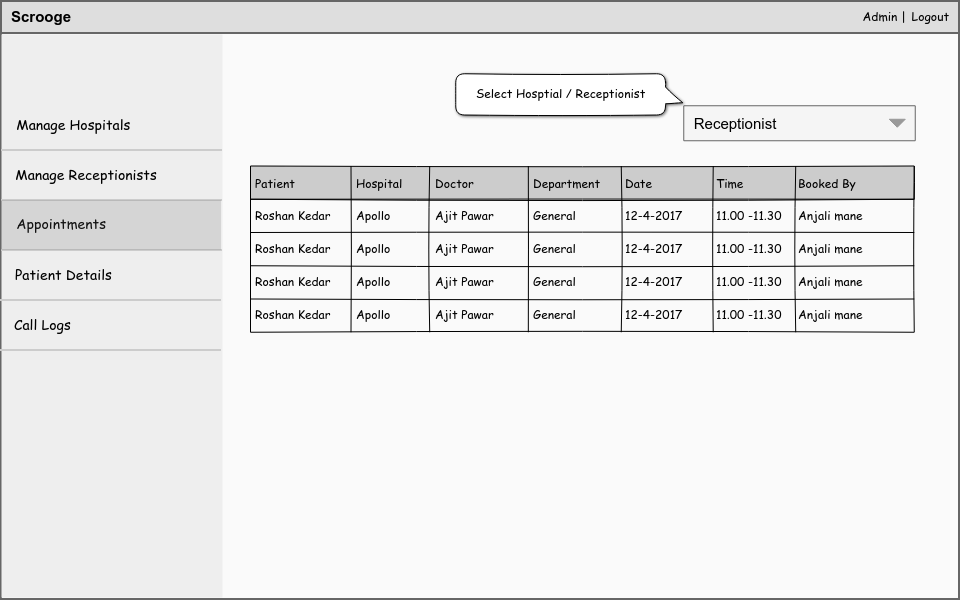
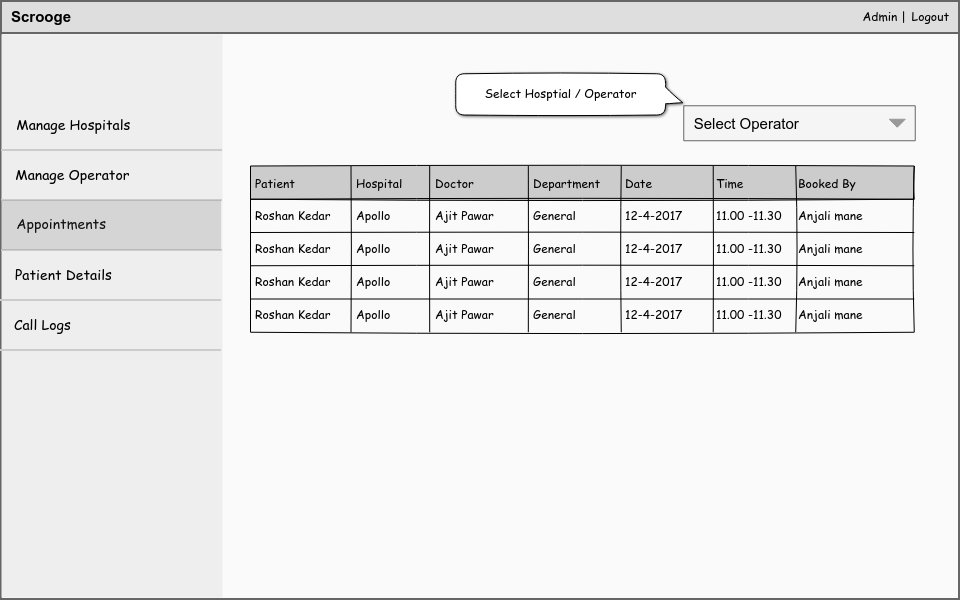
rename receptionist to operator, add department filter in hospital dashboard

diff --git a/index.html b/index.html
@@ -1,2 +1,2 @@
 <html xmlns="http://www.w3.org/1999/xhtml" xmlns:p="http://www.evolus.vn/Namespace/Pencil" xmlns:html="http://www.w3.org/1999/xhtml"><head><meta http-equiv="Content-Type" content="text/html; charset=UTF-8" />
-<title>scrooge.epgz</title><link rel="stylesheet" href="Resources/SampleStyle.css" /></head><body><h1 id="documentTitle">scrooge.epgz</h1><p id="documentMetadata">Exported at: Tue Mar 14 2017 17:45:34 GMT+0530 (IST)</p><div class="Page" id="login_page"><h2>login</h2><div class="ImageContainer"><img src="pages/login.png" width="960" height="600" usemap="#map_login" /></div><map name="map_login"><area shape="rect" coords="358,344,612,385.25" href="#dashboard_page" title="Go to page 'Dashboard'" /></map></div><div class="Page" id="dashboard_page"><h2>Dashboard</h2><div class="ImageContainer"><img src="pages/dashboard.png" width="960" height="600" usemap="#map_dashboard" /></div><map name="map_dashboard"><area shape="rect" coords="368.90625,391.4375,618.90625,436.4375" href="#hospital_page" title="Go to page 'hospital'" /><area shape="rect" coords="368.90625,135.4375,618.90625,182.4375" href="#admin_page" title="Go to page 'admin'" /><area shape="rect" coords="368.90625,306.4375,618.90625,351.4375" href="#doctor_page" title="Go to page 'doctor'" /><area shape="rect" coords="368.90625,222.4375,618.90625,268.4375" href="#operator_page" title="Go to page 'operator'" /></map></div><div class="Page" id="admin_page"><h2>admin</h2><div class="ImageContainer"><img src="pages/admin.png" width="960" height="600" usemap="#map_admin" /></div><map name="map_admin"><area shape="rect" coords="14,315,70.765625,334" href="#operatorscalllogs_page" title="Go to page 'operators-call-logs'" /><area shape="rect" coords="15,265,111.84375,284" href="#patientdetails_page" title="Go to page 'patient-details'" /><area shape="rect" coords="16.279998779296875,214.1199951171875,105.983123779297,233.119995117188" href="#appointments_page" title="Go to page 'appointments'" /><area shape="rect" coords="15.279998779296875,165.1199951171875,156.748748779297,184.119995117188" href="#managereceptionist_page" title="Go to page 'manage-receptionist'" /><area shape="rect" coords="862.5625,7.5625,905.984375,23.5625" href="#login_page" title="Go to page 'login'" /><area shape="rect" coords="911.5625,7.5625,949.046875,23.859375" href="#login_page" title="Go to page 'login'" /></map></div><div class="Page" id="managereceptionist_page"><h2>manage-receptionist</h2><div class="ImageContainer"><img src="pages/managereceptionist.png" width="960" height="600" usemap="#map_managereceptionist" /></div><map name="map_managereceptionist"><area shape="rect" coords="14,315,70.765625,334" href="#operatorscalllogs_page" title="Go to page 'operators-call-logs'" /><area shape="rect" coords="15,265,111.84375,284" href="#patientdetails_page" title="Go to page 'patient-details'" /><area shape="rect" coords="16.279998779296875,214.1199951171875,105.983123779297,233.119995117188" href="#appointments_page" title="Go to page 'appointments'" /><area shape="rect" coords="16.279998779296875,115.1199951171875,130.326873779297,134.119995117188" href="#admin_page" title="Go to page 'admin'" /><area shape="rect" coords="862.5625,7.5625,905.984375,23.5625" href="#login_page" title="Go to page 'login'" /><area shape="rect" coords="911.5625,6.5625,949.046875,22.859375" href="#login_page" title="Go to page 'login'" /></map></div><div class="Page" id="appointments_page"><h2>appointments</h2><div class="ImageContainer"><img src="pages/appointments.png" width="960" height="600" usemap="#map_appointments" /></div><map name="map_appointments"><area shape="rect" coords="14,315,70.765625,334" href="#operatorscalllogs_page" title="Go to page 'operators-call-logs'" /><area shape="rect" coords="15,265,111.84375,284" href="#patientdetails_page" title="Go to page 'patient-details'" /><area shape="rect" coords="15.279998779296875,165.1199951171875,156.748748779297,184.119995117188" href="#managereceptionist_page" title="Go to page 'manage-receptionist'" /><area shape="rect" coords="16.279998779296875,115.1199951171875,130.326873779297,134.119995117188" href="#admin_page" title="Go to page 'admin'" /><area shape="rect" coords="862.5625,7.5625,905.984375,23.5625" href="#login_page" title="Go to page 'login'" /><area shape="rect" coords="911.5625,7.5625,949.046875,23.859375" href="#login_page" title="Go to page 'login'" /></map></div><div class="Page" id="patientdetails_page"><h2>patient-details</h2><div class="ImageContainer"><img src="pages/patientdetails.png" width="960" height="600" usemap="#map_patientdetails" /></div><map name="map_patientdetails"><area shape="rect" coords="14,315,70.765625,334" href="#operatorscalllogs_page" title="Go to page 'operators-call-logs'" /><area shape="rect" coords="16.279998779296875,214.1199951171875,105.983123779297,233.119995117188" href="#appointments_page" title="Go to page 'appointments'" /><area shape="rect" coords="15.279998779296875,165.1199951171875,156.748748779297,184.119995117188" href="#managereceptionist_page" title="Go to page 'manage-receptionist'" /><area shape="rect" coords="16.279998779296875,115.1199951171875,130.326873779297,134.119995117188" href="#admin_page" title="Go to page 'admin'" /><area shape="rect" coords="862.5625,7.5625,905.984375,23.5625" href="#login_page" title="Go to page 'login'" /><area shape="rect" coords="911.5625,7.5625,949.046875,23.859375" href="#login_page" title="Go to page 'login'" /></map></div><div class="Page" id="operatorscalllogs_page"><h2>operators-call-logs</h2><div class="ImageContainer"><img src="pages/operatorscalllogs.png" width="960" height="600" usemap="#map_operatorscalllogs" /></div><map name="map_operatorscalllogs"><area shape="rect" coords="733.2799682617188,92.1199951171875,750.154968261719,111.119995117188" href="#admin_page" title="Go to page 'admin'" /><area shape="rect" coords="592.2799682617188,91.1199951171875,625.733093261719,110.119995117188" href="#admin_page" title="Go to page 'admin'" /><area shape="rect" coords="258.27996826171875,91.1199951171875,386.483093261719,110.119995117188" href="#admin_page" title="Go to page 'admin'" /><area shape="rect" coords="15,265,111.84375,284" href="#patientdetails_page" title="Go to page 'patient-details'" /><area shape="rect" coords="16.279998779296875,214.1199951171875,105.983123779297,233.119995117188" href="#appointments_page" title="Go to page 'appointments'" /><area shape="rect" coords="15.279998779296875,165.1199951171875,156.748748779297,184.119995117188" href="#managereceptionist_page" title="Go to page 'manage-receptionist'" /><area shape="rect" coords="16.279998779296875,115.1199951171875,130.326873779297,134.119995117188" href="#admin_page" title="Go to page 'admin'" /><area shape="rect" coords="862.5625,7.5625,905.984375,23.5625" href="#login_page" title="Go to page 'login'" /><area shape="rect" coords="911.5625,7.5625,949.046875,23.859375" href="#login_page" title="Go to page 'login'" /></map></div><div class="Page" id="doctor_page"><h2>doctor</h2><div class="ImageContainer"><img src="pages/doctor.png" width="960" height="600" usemap="#map_doctor" /></div><map name="map_doctor"><area shape="rect" coords="676,337.75,829.25,375.25" href="#doctorcalendermodal_page" title="Go to page 'doctor-calender-modal'" /><area shape="rect" coords="842.5625,7.5625,904.703125,23.5625" href="#login_page" title="Go to page 'login'" /><area shape="rect" coords="911.5625,7.5625,949.046875,23.859375" href="#login_page" title="Go to page 'login'" /></map></div><div class="Page" id="doctorcalendermodal_page"><h2>doctor-calender-modal</h2><div class="ImageContainer"><img src="pages/doctorcalendermodal.png" width="960" height="600" usemap="#map_doctorcalendermodal" /></div><map name="map_doctorcalendermodal"><area shape="rect" coords="0,0,960,600" href="#doctor_page" title="Go to page 'doctor'" /><area shape="rect" coords="842.5625,7.5625,904.703125,23.5625" href="#login_page" title="Go to page 'login'" /><area shape="rect" coords="911.5625,7.5625,949.046875,23.859375" href="#login_page" title="Go to page 'login'" /></map></div><div class="Page" id="operator_page"><h2>operator</h2><div class="ImageContainer"><img src="pages/operator.png" width="960" height="600" usemap="#map_operator" /></div><map name="map_operator"><area shape="rect" coords="422.9375,316.625,708.6875,369.125" href="#operatorappointments_page" title="Go to page 'operator-appointments'" /><area shape="rect" coords="14,215,70.765625,234" href="#calllogs_page" title="Go to page 'call-logs'" /><area shape="rect" coords="14,166,83.265625,185" href="#followups_page" title="Go to page 'follow-ups'" /><area shape="rect" coords="16.279998779296875,114.1199951171875,105.983123779297,133.119995117188" href="#appointments_page" title="Go to page 'appointments'" /><area shape="rect" coords="911.5625,7.5625,949.046875,23.859375" href="#login_page" title="Go to page 'login'" /></map></div><div class="Page" id="calllogs_page"><h2>call-logs</h2><div class="ImageContainer"><img src="pages/calllogs.png" width="960" height="600" usemap="#map_calllogs" /></div><map name="map_calllogs"><area shape="rect" coords="763.2799682617188,85.1199951171875,780.154968261719,104.119995117188" href="#admin_page" title="Go to page 'admin'" /><area shape="rect" coords="622.2799682617188,84.1199951171875,655.733093261719,103.119995117188" href="#admin_page" title="Go to page 'admin'" /><area shape="rect" coords="15,165,84.265625,184" href="#followups_page" title="Go to page 'follow-ups'" /><area shape="rect" coords="16.279998779296875,114.1199951171875,105.983123779297,133.119995117188" href="#operatorappointments_page" title="Go to page 'operator-appointments'" /><area shape="rect" coords="911.5625,7.5625,949.046875,23.859375" href="#login_page" title="Go to page 'login'" /></map></div><div class="Page" id="followups_page"><h2>follow-ups</h2><div class="ImageContainer"><img src="pages/followups.png" width="960" height="600" usemap="#map_followups" /></div><map name="map_followups"><area shape="rect" coords="771.2799682617188,87.1199951171875,788.154968261719,106.119995117188" href="#admin_page" title="Go to page 'admin'" /><area shape="rect" coords="630.2799682617188,86.1199951171875,663.733093261719,105.119995117188" href="#admin_page" title="Go to page 'admin'" /><area shape="rect" coords="14,215,70.765625,234" href="#calllogs_page" title="Go to page 'call-logs'" /><area shape="rect" coords="15,165,84.265625,184" href="#patientdetails_page" title="Go to page 'patient-details'" /><area shape="rect" coords="16.279998779296875,114.1199951171875,105.983123779297,133.119995117188" href="#operatorappointments_page" title="Go to page 'operator-appointments'" /><area shape="rect" coords="911.5625,7.5625,949.046875,23.859375" href="#login_page" title="Go to page 'login'" /></map></div><div class="Page" id="operatorappointments_page"><h2>operator-appointments</h2><div class="ImageContainer"><img src="pages/operatorappointments.png" width="960" height="600" usemap="#map_operatorappointments" /></div><map name="map_operatorappointments"><area shape="rect" coords="257,101,419,139" href="#newappointmentpatientdetails_page" title="Go to page 'new-appointment-(patient-details)'" /><area shape="rect" coords="14,215,70.765625,234" href="#calllogs_page" title="Go to page 'call-logs'" /><area shape="rect" coords="14,166,83.265625,185" href="#followups_page" title="Go to page 'follow-ups'" /><area shape="rect" coords="16.279998779296875,114.1199951171875,105.983123779297,133.119995117188" href="#appointments_page" title="Go to page 'appointments'" /><area shape="rect" coords="911.5625,7.5625,949.046875,23.859375" href="#login_page" title="Go to page 'login'" /></map></div><div class="Page" id="newappointmentpatientdetails_page"><h2>new-appointment-(patient-details)</h2><div class="ImageContainer"><img src="pages/newappointmentpatientdetails.png" width="960" height="600" usemap="#map_newappointmentpatientdetails" /></div><map name="map_newappointmentpatientdetails"><area shape="rect" coords="734.3125,444.9375,851.3125,484.9375" href="#newappointmentdoctordetails_page" title="Go to page 'new-appointment-(doctor-details)'" /><area shape="rect" coords="14,215,70.765625,234" href="#calllogs_page" title="Go to page 'call-logs'" /><area shape="rect" coords="14,166,83.265625,185" href="#followups_page" title="Go to page 'follow-ups'" /><area shape="rect" coords="16.279998779296875,114.1199951171875,105.983123779297,133.119995117188" href="#appointments_page" title="Go to page 'appointments'" /><area shape="rect" coords="911.5625,7.5625,949.046875,23.859375" href="#login_page" title="Go to page 'login'" /></map></div><div class="Page" id="newappointmentdoctordetails_page"><h2>new-appointment-(doctor-details)</h2><div class="ImageContainer"><img src="pages/newappointmentdoctordetails.png" width="960" height="600" usemap="#map_newappointmentdoctordetails" /></div><map name="map_newappointmentdoctordetails"><area shape="rect" coords="740.3125,372.9375,857.3125,412.9375" href="#newappointmentsummary_page" title="Go to page 'new-appointment-(summary)'" /><area shape="rect" coords="301.3125,372.9375,418.3125,412.9375" href="#newappointmentpatientdetails_page" title="Go to page 'new-appointment-(patient-details)'" /><area shape="rect" coords="14,215,70.765625,234" href="#calllogs_page" title="Go to page 'call-logs'" /><area shape="rect" coords="14,166,83.265625,185" href="#followups_page" title="Go to page 'follow-ups'" /><area shape="rect" coords="16.279998779296875,114.1199951171875,105.983123779297,133.119995117188" href="#appointments_page" title="Go to page 'appointments'" /><area shape="rect" coords="911.5625,7.5625,949.046875,23.859375" href="#login_page" title="Go to page 'login'" /></map></div><div class="Page" id="newappointmentsummary_page"><h2>new-appointment-(summary)</h2><div class="ImageContainer"><img src="pages/newappointmentsummary.png" width="960" height="600" usemap="#map_newappointmentsummary" /></div><map name="map_newappointmentsummary"><area shape="rect" coords="719.3125,381.9375,836.3125,421.9375" href="#operatorappointments_page" title="Go to page 'operator-appointments'" /><area shape="rect" coords="313.3125,381.9375,430.3125,421.9375" href="#newappointmentdoctordetails_page" title="Go to page 'new-appointment-(doctor-details)'" /><area shape="rect" coords="14,215,70.765625,234" href="#calllogs_page" title="Go to page 'call-logs'" /><area shape="rect" coords="14,166,83.265625,185" href="#followups_page" title="Go to page 'follow-ups'" /><area shape="rect" coords="16.279998779296875,114.1199951171875,105.983123779297,133.119995117188" href="#appointments_page" title="Go to page 'appointments'" /><area shape="rect" coords="911.5625,7.5625,949.046875,23.859375" href="#login_page" title="Go to page 'login'" /></map></div><div class="Page" id="hospital_page"><h2>hospital</h2><div class="ImageContainer"><img src="pages/hospital.png" width="960" height="600" usemap="#map_hospital" /></div><map name="map_hospital"><area shape="rect" coords="808.5625,7.5625,901.40625,23.953125" href="#login_page" title="Go to page 'login'" /><area shape="rect" coords="911.5625,7.5625,949.046875,23.859375" href="#login_page" title="Go to page 'login'" /></map></div></body></html>
+<title>scrooge.epgz</title><link rel="stylesheet" href="Resources/SampleStyle.css" /></head><body><h1 id="documentTitle">scrooge.epgz</h1><p id="documentMetadata">Exported at: Thu Mar 16 2017 00:44:23 GMT+0530 (IST)</p><div class="Page" id="login_page"><h2>login</h2><div class="ImageContainer"><img src="pages/login.png" width="960" height="600" usemap="#map_login" /></div><map name="map_login"><area shape="rect" coords="358,344,612,385.25" href="#dashboard_page" title="Go to page 'Dashboard'" /></map></div><div class="Page" id="dashboard_page"><h2>Dashboard</h2><div class="ImageContainer"><img src="pages/dashboard.png" width="960" height="600" usemap="#map_dashboard" /></div><map name="map_dashboard"><area shape="rect" coords="368.90625,391.4375,618.90625,437.4375" href="#hospital_page" title="Go to page 'hospital'" /><area shape="rect" coords="368.90625,136.4375,618.90625,182.4375" href="#admin_page" title="Go to page 'admin'" /><area shape="rect" coords="368.90625,306.4375,619.90625,351.4375" href="#doctor_page" title="Go to page 'doctor'" /><area shape="rect" coords="368.90625,223.4375,618.90625,268.4375" href="#operator_page" title="Go to page 'operator'" /></map></div><div class="Page" id="admin_page"><h2>admin</h2><div class="ImageContainer"><img src="pages/admin.png" width="960" height="600" usemap="#map_admin" /></div><map name="map_admin"><area shape="rect" coords="14,315,70.765625,334" href="#operatorscalllogs_page" title="Go to page 'operators-call-logs'" /><area shape="rect" coords="15,265,111.84375,284" href="#patientdetails_page" title="Go to page 'patient-details'" /><area shape="rect" coords="16.279998779296875,214.1199951171875,105.983123779297,233.119995117188" href="#appointments_page" title="Go to page 'appointments'" /><area shape="rect" coords="15.279998779296875,165.1199951171875,129.483123779297,184.119995117188" href="#manageoperator_page" title="Go to page 'manage-operator'" /><area shape="rect" coords="862.5625,7.5625,905.984375,23.5625" href="#login_page" title="Go to page 'login'" /><area shape="rect" coords="911.5625,7.5625,949.046875,23.859375" href="#login_page" title="Go to page 'login'" /></map></div><div class="Page" id="manageoperator_page"><h2>manage-operator</h2><div class="ImageContainer"><img src="pages/manageoperator.png" width="960" height="600" usemap="#map_manageoperator" /></div><map name="map_manageoperator"><area shape="rect" coords="14,315,70.765625,334" href="#operatorscalllogs_page" title="Go to page 'operators-call-logs'" /><area shape="rect" coords="15,265,111.84375,284" href="#patientdetails_page" title="Go to page 'patient-details'" /><area shape="rect" coords="16.279998779296875,214.1199951171875,105.983123779297,233.119995117188" href="#appointments_page" title="Go to page 'appointments'" /><area shape="rect" coords="16.279998779296875,115.1199951171875,130.326873779297,134.119995117188" href="#admin_page" title="Go to page 'admin'" /><area shape="rect" coords="862.5625,7.5625,905.984375,23.5625" href="#login_page" title="Go to page 'login'" /><area shape="rect" coords="911.5625,6.5625,949.046875,22.859375" href="#login_page" title="Go to page 'login'" /></map></div><div class="Page" id="appointments_page"><h2>appointments</h2><div class="ImageContainer"><img src="pages/appointments.png" width="960" height="600" usemap="#map_appointments" /></div><map name="map_appointments"><area shape="rect" coords="14,315,70.765625,334" href="#operatorscalllogs_page" title="Go to page 'operators-call-logs'" /><area shape="rect" coords="15,265,111.84375,284" href="#patientdetails_page" title="Go to page 'patient-details'" /><area shape="rect" coords="15.279998779296875,165.1199951171875,129.483123779297,184.119995117188" href="#manageoperator_page" title="Go to page 'manage-operator'" /><area shape="rect" coords="16.279998779296875,115.1199951171875,130.326873779297,134.119995117188" href="#admin_page" title="Go to page 'admin'" /><area shape="rect" coords="862.5625,7.5625,905.984375,23.5625" href="#login_page" title="Go to page 'login'" /><area shape="rect" coords="911.5625,7.5625,949.046875,23.859375" href="#login_page" title="Go to page 'login'" /></map></div><div class="Page" id="patientdetails_page"><h2>patient-details</h2><div class="ImageContainer"><img src="pages/patientdetails.png" width="960" height="600" usemap="#map_patientdetails" /></div><map name="map_patientdetails"><area shape="rect" coords="14,315,70.765625,334" href="#operatorscalllogs_page" title="Go to page 'operators-call-logs'" /><area shape="rect" coords="16.279998779296875,214.1199951171875,105.983123779297,233.119995117188" href="#appointments_page" title="Go to page 'appointments'" /><area shape="rect" coords="15.279998779296875,165.1199951171875,129.483123779297,184.119995117188" href="#manageoperator_page" title="Go to page 'manage-operator'" /><area shape="rect" coords="16.279998779296875,115.1199951171875,130.326873779297,134.119995117188" href="#admin_page" title="Go to page 'admin'" /><area shape="rect" coords="862.5625,7.5625,905.984375,23.5625" href="#login_page" title="Go to page 'login'" /><area shape="rect" coords="911.5625,7.5625,949.046875,23.859375" href="#login_page" title="Go to page 'login'" /></map></div><div class="Page" id="operatorscalllogs_page"><h2>operators-call-logs</h2><div class="ImageContainer"><img src="pages/operatorscalllogs.png" width="960" height="600" usemap="#map_operatorscalllogs" /></div><map name="map_operatorscalllogs"><area shape="rect" coords="733.2799682617188,92.1199951171875,750.154968261719,111.119995117188" href="#admin_page" title="Go to page 'admin'" /><area shape="rect" coords="592.2799682617188,91.1199951171875,625.733093261719,110.119995117188" href="#admin_page" title="Go to page 'admin'" /><area shape="rect" coords="258.27996826171875,91.1199951171875,386.483093261719,110.119995117188" href="#admin_page" title="Go to page 'admin'" /><area shape="rect" coords="15,265,111.84375,284" href="#patientdetails_page" title="Go to page 'patient-details'" /><area shape="rect" coords="16.279998779296875,214.1199951171875,105.983123779297,233.119995117188" href="#appointments_page" title="Go to page 'appointments'" /><area shape="rect" coords="15.279998779296875,165.1199951171875,129.483123779297,184.119995117188" href="#manageoperator_page" title="Go to page 'manage-operator'" /><area shape="rect" coords="16.279998779296875,115.1199951171875,130.326873779297,134.119995117188" href="#admin_page" title="Go to page 'admin'" /><area shape="rect" coords="862.5625,7.5625,905.984375,23.5625" href="#login_page" title="Go to page 'login'" /><area shape="rect" coords="911.5625,7.5625,949.046875,23.859375" href="#login_page" title="Go to page 'login'" /></map></div><div class="Page" id="doctor_page"><h2>doctor</h2><div class="ImageContainer"><img src="pages/doctor.png" width="960" height="600" usemap="#map_doctor" /></div><map name="map_doctor"><area shape="rect" coords="676,337.75,829.25,375.25" href="#doctorcalendermodal_page" title="Go to page 'doctor-calender-modal'" /><area shape="rect" coords="842.5625,7.5625,904.703125,23.5625" href="#login_page" title="Go to page 'login'" /><area shape="rect" coords="911.5625,7.5625,949.046875,23.859375" href="#login_page" title="Go to page 'login'" /></map></div><div class="Page" id="doctorcalendermodal_page"><h2>doctor-calender-modal</h2><div class="ImageContainer"><img src="pages/doctorcalendermodal.png" width="960" height="600" usemap="#map_doctorcalendermodal" /></div><map name="map_doctorcalendermodal"><area shape="rect" coords="0,0,960,600" href="#doctor_page" title="Go to page 'doctor'" /><area shape="rect" coords="842.5625,7.5625,904.703125,23.5625" href="#login_page" title="Go to page 'login'" /><area shape="rect" coords="911.5625,7.5625,949.046875,23.859375" href="#login_page" title="Go to page 'login'" /></map></div><div class="Page" id="operator_page"><h2>operator</h2><div class="ImageContainer"><img src="pages/operator.png" width="960" height="600" usemap="#map_operator" /></div><map name="map_operator"><area shape="rect" coords="422.9375,316.625,708.6875,369.125" href="#operatorappointments_page" title="Go to page 'operator-appointments'" /><area shape="rect" coords="14,215,70.765625,234" href="#calllogs_page" title="Go to page 'call-logs'" /><area shape="rect" coords="14,166,83.265625,185" href="#followups_page" title="Go to page 'follow-ups'" /><area shape="rect" coords="16.279998779296875,114.1199951171875,105.983123779297,133.119995117188" href="#appointments_page" title="Go to page 'appointments'" /><area shape="rect" coords="911.5625,7.5625,949.046875,23.859375" href="#login_page" title="Go to page 'login'" /></map></div><div class="Page" id="calllogs_page"><h2>call-logs</h2><div class="ImageContainer"><img src="pages/calllogs.png" width="960" height="600" usemap="#map_calllogs" /></div><map name="map_calllogs"><area shape="rect" coords="763.2799682617188,85.1199951171875,780.154968261719,104.119995117188" href="#admin_page" title="Go to page 'admin'" /><area shape="rect" coords="622.2799682617188,84.1199951171875,655.733093261719,103.119995117188" href="#admin_page" title="Go to page 'admin'" /><area shape="rect" coords="15,165,84.265625,184" href="#followups_page" title="Go to page 'follow-ups'" /><area shape="rect" coords="16.279998779296875,114.1199951171875,105.983123779297,133.119995117188" href="#operatorappointments_page" title="Go to page 'operator-appointments'" /><area shape="rect" coords="911.5625,7.5625,949.046875,23.859375" href="#login_page" title="Go to page 'login'" /></map></div><div class="Page" id="followups_page"><h2>follow-ups</h2><div class="ImageContainer"><img src="pages/followups.png" width="960" height="600" usemap="#map_followups" /></div><map name="map_followups"><area shape="rect" coords="771.2799682617188,87.1199951171875,788.154968261719,106.119995117188" href="#admin_page" title="Go to page 'admin'" /><area shape="rect" coords="630.2799682617188,86.1199951171875,663.733093261719,105.119995117188" href="#admin_page" title="Go to page 'admin'" /><area shape="rect" coords="14,215,70.765625,234" href="#calllogs_page" title="Go to page 'call-logs'" /><area shape="rect" coords="15,165,84.265625,184" href="#patientdetails_page" title="Go to page 'patient-details'" /><area shape="rect" coords="16.279998779296875,114.1199951171875,105.983123779297,133.119995117188" href="#operatorappointments_page" title="Go to page 'operator-appointments'" /><area shape="rect" coords="911.5625,7.5625,949.046875,23.859375" href="#login_page" title="Go to page 'login'" /></map></div><div class="Page" id="operatorappointments_page"><h2>operator-appointments</h2><div class="ImageContainer"><img src="pages/operatorappointments.png" width="960" height="600" usemap="#map_operatorappointments" /></div><map name="map_operatorappointments"><area shape="rect" coords="257,101,419,139" href="#newappointmentpatientdetails_page" title="Go to page 'new-appointment-(patient-details)'" /><area shape="rect" coords="14,215,70.765625,234" href="#calllogs_page" title="Go to page 'call-logs'" /><area shape="rect" coords="14,166,83.265625,185" href="#followups_page" title="Go to page 'follow-ups'" /><area shape="rect" coords="16.279998779296875,114.1199951171875,105.983123779297,133.119995117188" href="#appointments_page" title="Go to page 'appointments'" /><area shape="rect" coords="911.5625,7.5625,949.046875,23.859375" href="#login_page" title="Go to page 'login'" /></map></div><div class="Page" id="newappointmentpatientdetails_page"><h2>new-appointment-(patient-details)</h2><div class="ImageContainer"><img src="pages/newappointmentpatientdetails.png" width="960" height="600" usemap="#map_newappointmentpatientdetails" /></div><map name="map_newappointmentpatientdetails"><area shape="rect" coords="734.3125,444.9375,851.3125,484.9375" href="#newappointmentdoctordetails_page" title="Go to page 'new-appointment-(doctor-details)'" /><area shape="rect" coords="14,215,70.765625,234" href="#calllogs_page" title="Go to page 'call-logs'" /><area shape="rect" coords="14,166,83.265625,185" href="#followups_page" title="Go to page 'follow-ups'" /><area shape="rect" coords="16.279998779296875,114.1199951171875,105.983123779297,133.119995117188" href="#appointments_page" title="Go to page 'appointments'" /><area shape="rect" coords="911.5625,7.5625,949.046875,23.859375" href="#login_page" title="Go to page 'login'" /></map></div><div class="Page" id="newappointmentdoctordetails_page"><h2>new-appointment-(doctor-details)</h2><div class="ImageContainer"><img src="pages/newappointmentdoctordetails.png" width="960" height="600" usemap="#map_newappointmentdoctordetails" /></div><map name="map_newappointmentdoctordetails"><area shape="rect" coords="740.3125,372.9375,857.3125,412.9375" href="#newappointmentsummary_page" title="Go to page 'new-appointment-(summary)'" /><area shape="rect" coords="301.3125,372.9375,418.3125,412.9375" href="#newappointmentpatientdetails_page" title="Go to page 'new-appointment-(patient-details)'" /><area shape="rect" coords="14,215,70.765625,234" href="#calllogs_page" title="Go to page 'call-logs'" /><area shape="rect" coords="14,166,83.265625,185" href="#followups_page" title="Go to page 'follow-ups'" /><area shape="rect" coords="16.279998779296875,114.1199951171875,105.983123779297,133.119995117188" href="#appointments_page" title="Go to page 'appointments'" /><area shape="rect" coords="911.5625,7.5625,949.046875,23.859375" href="#login_page" title="Go to page 'login'" /></map></div><div class="Page" id="newappointmentsummary_page"><h2>new-appointment-(summary)</h2><div class="ImageContainer"><img src="pages/newappointmentsummary.png" width="960" height="600" usemap="#map_newappointmentsummary" /></div><map name="map_newappointmentsummary"><area shape="rect" coords="719.3125,381.9375,836.3125,421.9375" href="#operatorappointments_page" title="Go to page 'operator-appointments'" /><area shape="rect" coords="313.3125,381.9375,430.3125,421.9375" href="#newappointmentdoctordetails_page" title="Go to page 'new-appointment-(doctor-details)'" /><area shape="rect" coords="14,215,70.765625,234" href="#calllogs_page" title="Go to page 'call-logs'" /><area shape="rect" coords="14,166,83.265625,185" href="#followups_page" title="Go to page 'follow-ups'" /><area shape="rect" coords="16.279998779296875,114.1199951171875,105.983123779297,133.119995117188" href="#appointments_page" title="Go to page 'appointments'" /><area shape="rect" coords="911.5625,7.5625,949.046875,23.859375" href="#login_page" title="Go to page 'login'" /></map></div><div class="Page" id="hospital_page"><h2>hospital</h2><div class="ImageContainer"><img src="pages/hospital.png" width="960" height="600" usemap="#map_hospital" /></div><map name="map_hospital"><area shape="rect" coords="808.5625,7.5625,901.40625,23.953125" href="#login_page" title="Go to page 'login'" /><area shape="rect" coords="911.5625,7.5625,949.046875,23.859375" href="#login_page" title="Go to page 'login'" /></map></div></body></html>
